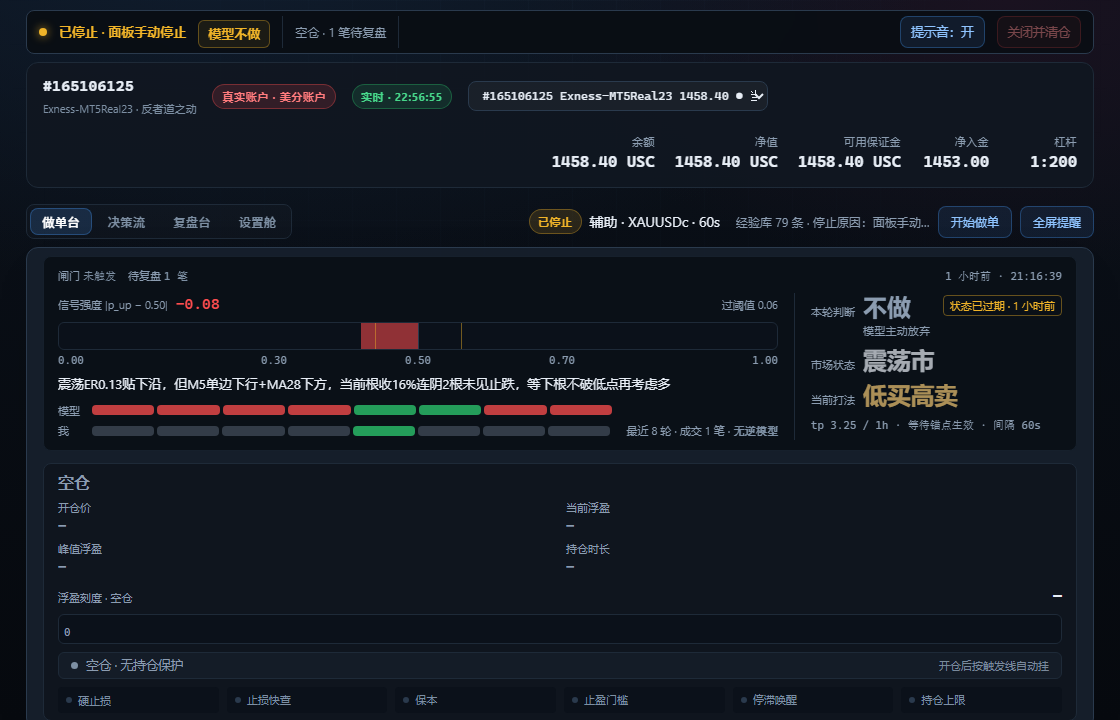
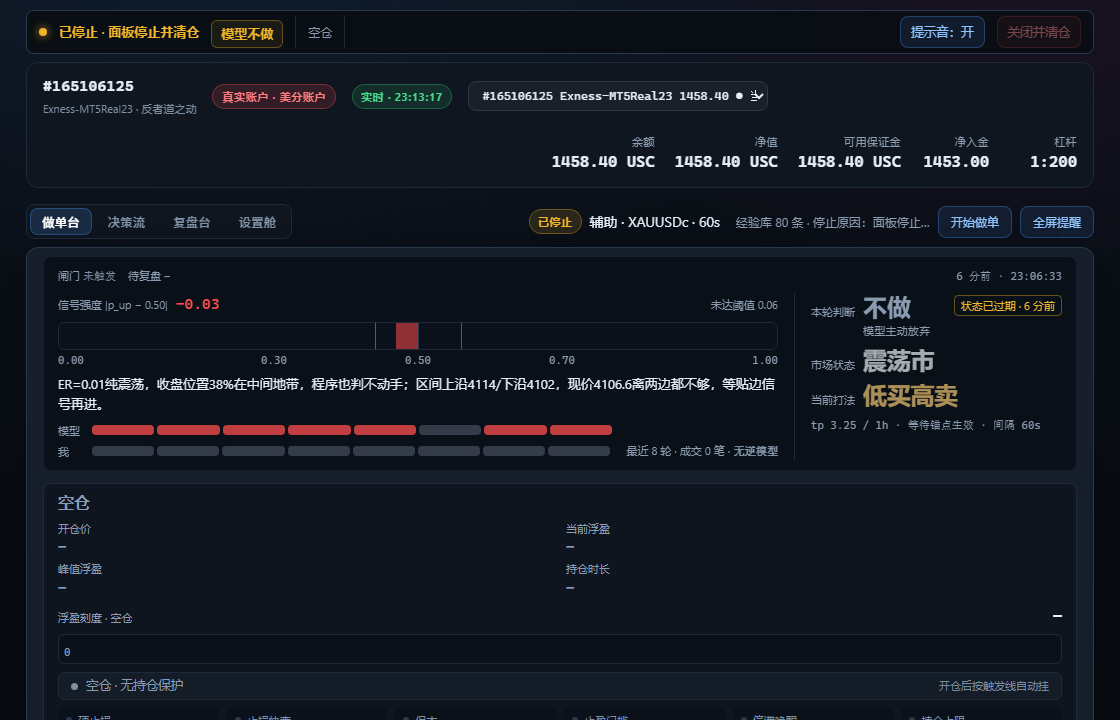
fix(ui): 宽屏下做单台不再摊出空洞（环按内容定高 + 卡片最多长 80px）
1600×900 实测：卡片被撑到 630px，环分到 303px，而内容只有 ~207px；
多出来的 96px 全被 .ctx-cmp 的 margin-top:auto 堆在「理由」和「模型/我」
之间，右栏 tp 参数下面同样空一截。

- .at-grid 行高改 auto / 1fr：环按内容定高，富余进持仓面板（它本来就靠
  space-between 吸收高度，多给它属于铺开不是挖洞）。
- 卡片本身由 fitDesk 收口：Math.min(avail, minH + 80)。撑满会把空白摊进
  卡片内部，完全不撑又会在 1080 高的屏上留三分之一屏的空白背景。
- 试过并否掉的三种：环内两处 auto 平分（「理由」悬空、离信号条 100px）、
  内容整体居中（上下各一片空，卡片像个空盒子）、把富余全给持仓面板
  （5 块被撑到 40px 间距，浮盈刻度尺脱群）。
- .tight 里那条 at-grid 行高覆盖随之删除（已与基础值相同）。

验收：1067 单测通过；冒烟新增 1 条（行高必须是 auto / 1fr）；三张截图重截。

diff --git a/tools/dashboard_template.html b/tools/dashboard_template.html
@@ -192,10 +192,15 @@
      被挤成两行半，持仓面板那 38% 宽度下四个数字已经挤到要退回 2×2。
      改成上下铺满之后，p_up 条和理由一行能放的字数翻了近一倍，持仓面板也能
      把 6 盏闸门灯从 3×2 摊成一行 6 个，省下整整一行高度。
-     行高 1.05 : 1 —— 环里要放模型原话，天然比四个数字需要多一点。 */
+     行高改 auto / 1fr（2026-11-05 收空白）：环里内容只有 ~190px，被 1.05fr
+     拉到 303px 之后 `.ctx-cmp` 的 margin-top:auto 把 96px 空白堆在「理由」和
+     「模型/我」之间，右栏参数行下面同样空一截——1600×900 实测两条空洞。
+     改成环按内容定高、富余进持仓面板：持仓面板本来就靠 space-between 吸收
+     高度，多给它属于「铺开」不是「挖洞」。卡片本身的富余另由 fitDesk 收口
+     （最多长 80px），否则 1080 高时页面底部会空掉三分之一。 */
   .at-grid {
     display: grid; grid-template-columns: minmax(0, 1fr);
-    grid-template-rows: minmax(0, 1.05fr) minmax(0, 1fr);
+    grid-template-rows: auto minmax(0, 1fr);
     gap: var(--sp3); align-items: stretch;
   }
 
@@ -600,21 +605,15 @@
   #live-desk .pos-panel { justify-content: space-between; }
 
   /* ---- 矮窗口紧凑排版（.tight 由 fitPane 实测后挂到 #live-desk 上）----
-     1120×720 是窗口允许的最小尺寸（desktop.py 的 min_size），在这一档下
-     宽松版自然高度 638px，而可用只有 550px——差 88px 全靠空档：
-     `grid-template-rows: 1.05fr / 1fr` 在「容器高度不定」时会把两行一起
-     往上抬，环里原来的 .rspacer 各被撑到 42px（设计意图是 4px），
-     持仓面板的 space-between 同理。改 auto 之后这两处空白立刻归零，
-     内容一个字没动。（.rspacer 已随左图右字改版删除，空档改由
-     .ctx-cmp / .ctx-ev 的 margin-top:auto 承担，同样会归零。）
-     只在装不下时才挂 .tight：宽屏上那些留白是刻意铺开的呼吸位，不能删。 */
-  #live-desk.tight .at-grid { grid-template-rows: auto minmax(0, 1fr); }
+     1120×720 是窗口允许的最小尺寸（desktop.py 的 min_size），这一档要把
+     卡片内外边距和轨道高度一起压下来才装得下。
+     行高不再由 .tight 改：.at-grid 已经是 auto / 1fr（见文件上半段），
+     宽屏的富余高度统一进持仓面板，环不再被拉出空洞。 */
   #live-desk.tight > .card.l1 { padding-top: var(--sp2); padding-bottom: var(--sp2); }
   #live-desk.tight #ring { padding: 10px 14px; }
   #live-desk.tight .pos-panel { padding: 10px 14px; }
   #live-desk.tight .put-track { height: 28px; }
-  /* 矮窗口：左图右字保住三个大字和参数行（打法参数不能被省掉），只压色块高度。
-     .ctx-ev 的 margin-top:auto 在装不下时本来就会归零，不需要另写覆盖。 */
+  /* 矮窗口：左图右字保住三个大字和参数行（打法参数不能被省掉），只压色块高度。 */
   #live-desk.tight .cmp-cell { height: 10px; }
   /* 页脚一条带子兼三件事：标题 / 条数 / 跳过行开关。原来这三样各占一行
      （表头 22px + 过滤条），决策流因此少显示整整一行。 */
@@ -6965,10 +6964,14 @@ function fitPane(paneId) {
     minH = card.scrollHeight;
   }
   if (avail > minH) {
-    // 富余空间交给卡片自己：做单台给 at-grid（各区块按间距铺开），
-    // 决策流给 .stream-body（列表变长）。空仓/未启动时也不会在底部留一条空档。
-    card.style.height = avail + 'px';
-    card.style.maxHeight = avail + 'px';
+    // 富余空间交给卡片自己：决策流给 .stream-body（列表变长）。
+    // 做单台例外：它只有「环 + 持仓」两块固定内容，撑满视口只会把空白摊进
+    // 卡片内部（1600×900 实测：环里一条 96px 空洞，或持仓面板被 space-between
+    // 撑散）；完全不撑又会在 1080 高的屏上留下三分之一屏的空白背景。
+    // 折中：最多再长 80px（一行呼吸位），其余富余留给页面。
+    const capH = paneId === 'live-desk' ? Math.min(avail, minH + 80) : avail;
+    card.style.height = capH + 'px';
+    card.style.maxHeight = capH + 'px';
     // 自校验：撑满后文档还是比视口高，说明 top 量早了（账户条/标题还没渲染出来），
     // 或者内容确实装不下——退回最小高度让页面滚，绝不把卡片撑到视口外。
     if (document.documentElement.scrollHeight > window.innerHeight + 1) {
@@ -6982,8 +6985,9 @@ function fitPane(paneId) {
     pane.classList.add('tight');
     const minTight = card.scrollHeight;
     if (avail > minTight) {
-      card.style.height = avail + 'px';
-      card.style.maxHeight = avail + 'px';
+      const capTight = Math.min(avail, minTight + 80);
+      card.style.height = capTight + 'px';
+      card.style.maxHeight = capTight + 'px';
       if (document.documentElement.scrollHeight > window.innerHeight + 1) {
         card.style.height = '';
         card.style.maxHeight = minTight + 'px';

diff --git a/tools/smoke_dashboard.js b/tools/smoke_dashboard.js
@@ -743,6 +743,11 @@ try {
     && src.indexOf('class="t">本轮判断') < 0;
   console.log(`  「本轮判断」紧跟「不做」且不再出现在环头 ${labelOk ? '✓' : '✗'}`);
   if (!labelOk) failed = true;
+  // 行高必须是 auto / 1fr：回到 1.05fr 让环跟着拉伸，宽屏又会在「理由」和
+  // 「模型/我」之间堆出上百像素的空洞（1600×900 实测 96px）。
+  const rowOk = /\.at-grid\s*\{[^}]*grid-template-rows:\s*auto minmax\(0, 1fr\)/.test(src);
+  console.log(`  做单台行高 auto / 1fr（环按内容定高） ${rowOk ? '✓' : '✗'}`);
+  if (!rowOk) failed = true;
 } catch (e) {
   failed = true;
   console.log('渲染抛错:', e.message);
